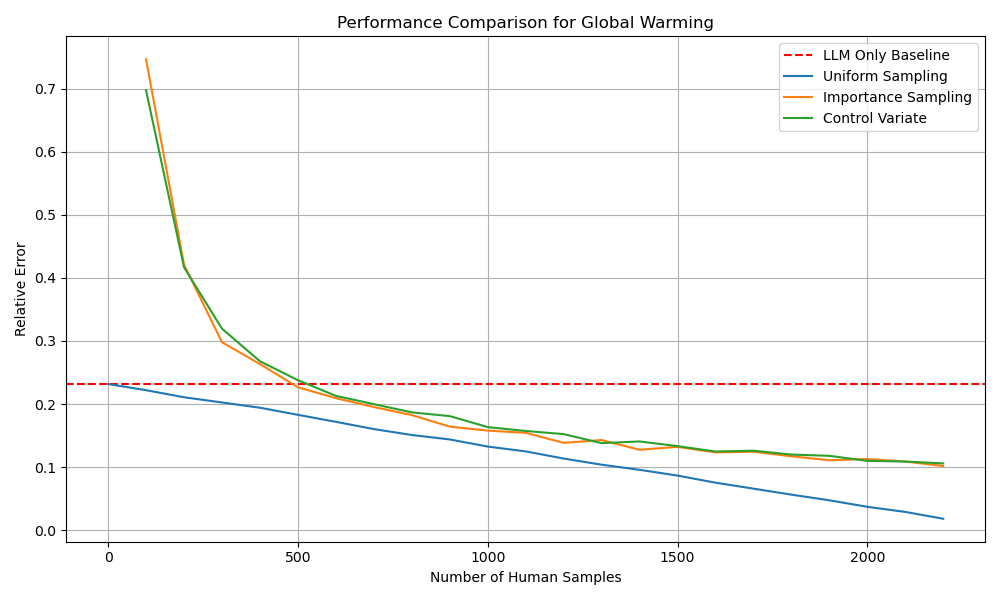
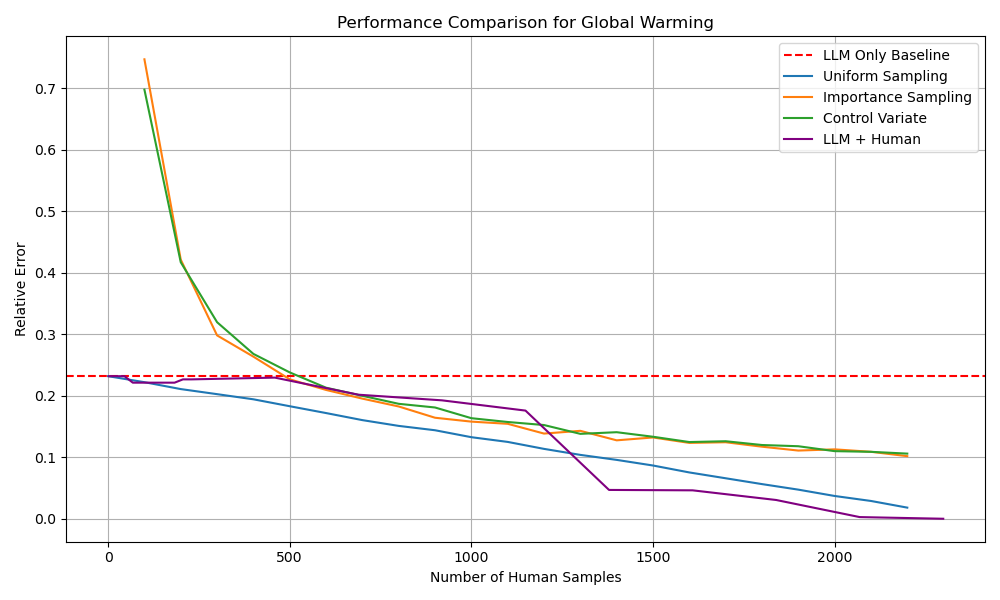
Added LLM + Human for plotting

diff --git a/plot_results.py b/plot_results.py
@@ -38,15 +38,25 @@ def plot_dataset(dataset):
     for method in METHODS:
         results = load_results(method, dataset)
         if results is not None:
-            if "Human_Samples" in results.columns:
-                x = results["Human_Samples"]
-            elif "Human Samples" in results.columns:
-                x = results["Human Samples"]
+            if method == "llm_human":
+                # Handle LLM + Human results specifically
+                if "Cost_Human" in results.columns and "Relative_Error" in results.columns:
+                    x = results["Cost_Human"]
+                    y = results["Relative_Error"]
+                    plt.plot(x, y, label="LLM + Human", linestyle="-", color="purple")  # Solid line
+                else:
+                    print(f"LLM + Human results for {dataset} are missing required columns.")
             else:
-                continue  # Skip if no human samples column is found
+                # Handle other methods
+                if "Human_Samples" in results.columns:
+                    x = results["Human_Samples"]
+                elif "Human Samples" in results.columns:
+                    x = results["Human Samples"]
+                else:
+                    continue  # Skip if no human samples column is found
 
-            y = results["Relative Error"] if "Relative Error" in results.columns else results["AvgRelativeError"]
-            plt.plot(x, y, label=method.replace("_", " ").title())
+                y = results["Relative Error"] if "Relative Error" in results.columns else results["AvgRelativeError"]
+                plt.plot(x, y, label=method.replace("_", " ").title())
 
     plt.title(f"Performance Comparison for {dataset.replace('_', ' ').title()}")
     plt.xlabel("Number of Human Samples")
